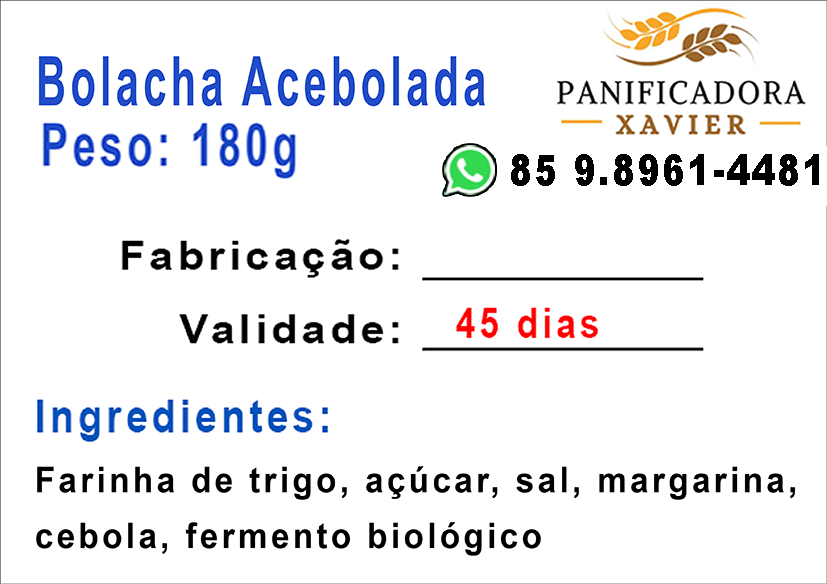
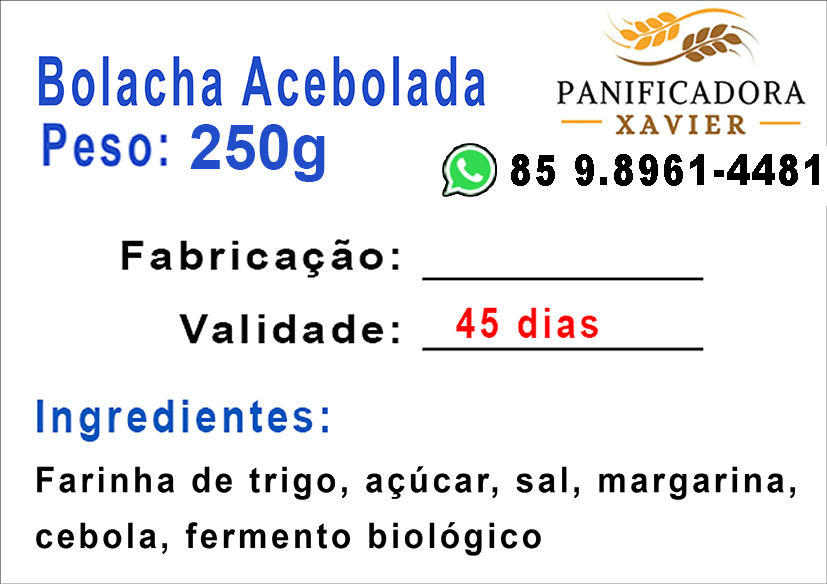
atualização de produtos 17-03-2026

Changed region(s): [[0.2116, 0.1849, 0.393, 0.3082]]

diff --git a/index.html b/index.html
@@ -45,8 +45,8 @@
                                     <div class="input-group mb-3">
                                         <select name="produto" id="produto" class="form-control input_user" required>
                                             <option value="" disabled selected> Qual o produto? </option>
-                                            <option value="acebolada">Bolacha Acebolada 180g</option>
-                                            <option value="amanteigada">Bolacha Amanteigada 180g</option>
+                                            <option value="acebolada">Bolacha Acebolada 250g</option>
+                                            <option value="amanteigada">Bolacha Amanteigada 250g</option>
                                             <option value="folheada">Bolacha Sete Capa 250g</option>
                                             <option value="mole">Bolacha Mole 200g</option>
                                             <option value="pastel">Bolacha Pastel 220g</option>
@@ -55,10 +55,10 @@
                                             <option value="maluca">Maluca 300g</option>
                                             <option value="rosca-1">Rosca 1 - 150g</option>
                                             <option value="rosca-2">Rosca 2 - 180g</option>
-                                            <option value="rosca-3">Rosca Mole - 150g</option>
+                                            <option value="rosca-3">Rosca Mole - 250g</option>
                                             <option value="pao-bola">Pão Bola - 300g</option>
-                                            <option value="pao-2">Pão de Coco - 200g</option>
-                                            <option value="pao-4">Pão de Coco - 400g</option>
+                                            <option value="pao-2">Pão de Coco - 250g</option>
+                                            <option value="pao-4">Pão de Coco - 500g</option>
                                         </select>
                                     </div>
                                     <!-- Data -->
